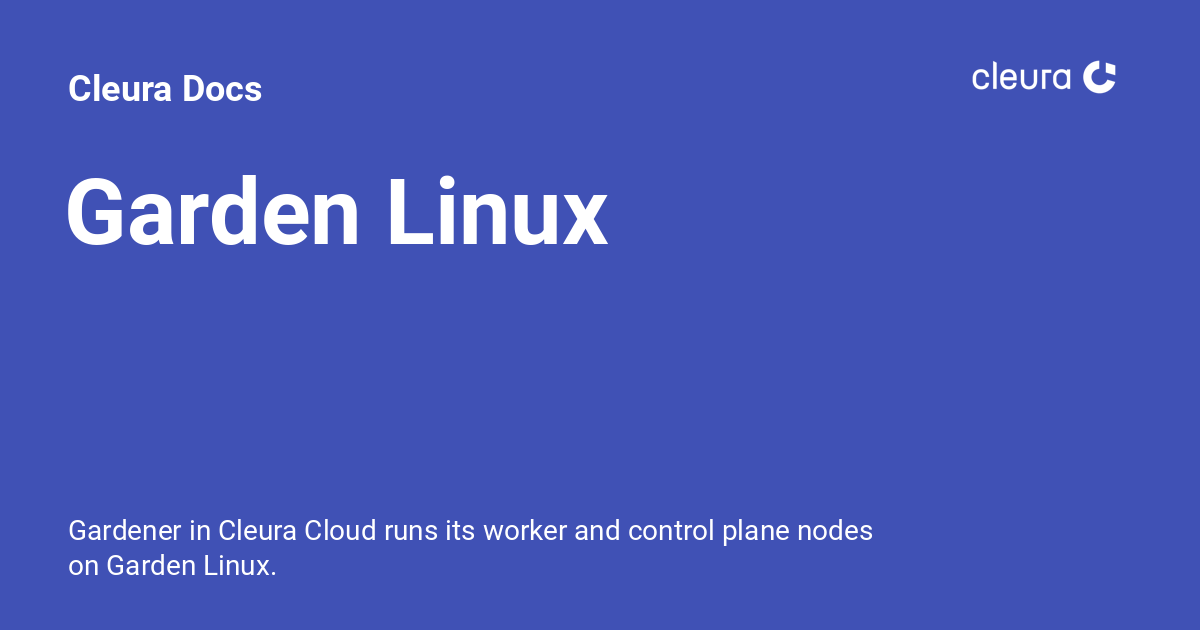
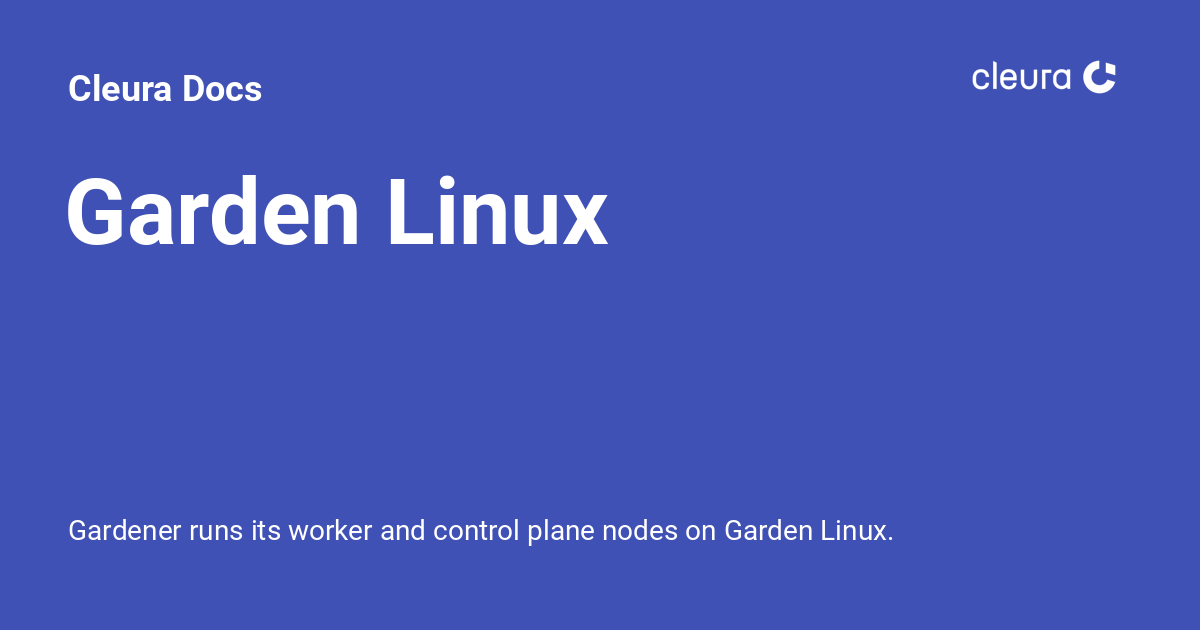
Deployed f7523b7a with MkDocs version: 1.5.3

Changed region(s): [[0.0617, 0.8143, 0.74, 0.9349]]

diff --git a/background/kubernetes/gardener/garden-linux/index.html b/background/kubernetes/gardener/garden-linux/index.html
@@ -6,7 +6,7 @@
       <meta charset="utf-8">
       <meta name="viewport" content="width=device-width,initial-scale=1">
       
-        <meta name="description" content="Gardener in Cleura Cloud runs its worker and control plane nodes on Garden Linux.">
+        <meta name="description" content="Gardener runs its worker and control plane nodes on Garden Linux.">
       
       
       
@@ -70,7 +70,7 @@
       
         <meta  property="og:title"  content="Garden Linux - Cleura Docs" >
       
-        <meta  property="og:description"  content="Gardener in Cleura Cloud runs its worker and control plane nodes on Garden Linux." >
+        <meta  property="og:description"  content="Gardener runs its worker and control plane nodes on Garden Linux." >
       
         <meta  property="og:image"  content="https://docs.cleura.cloud/assets/images/social/background/kubernetes/gardener/garden-linux.png" >
       
@@ -86,7 +86,7 @@
       
         <meta  name="twitter:title"  content="Garden Linux - Cleura Docs" >
       
-        <meta  name="twitter:description"  content="Gardener in Cleura Cloud runs its worker and control plane nodes on Garden Linux." >
+        <meta  name="twitter:description"  content="Gardener runs its worker and control plane nodes on Garden Linux." >
       
         <meta  name="twitter:image"  content="https://docs.cleura.cloud/assets/images/social/background/kubernetes/gardener/garden-linux.png" >
       
@@ -4053,7 +4053,7 @@ For example, Garden Linux 576 includes the Linux 5.10 kernel, whereas Garden Lin
   <small>
     
       Last update:
-      <span class="git-revision-date-localized-plugin git-revision-date-localized-plugin-iso_date">2023-09-20</span>
+      <span class="git-revision-date-localized-plugin git-revision-date-localized-plugin-iso_date">2023-12-05</span>
       
         <br>
         Created:

diff --git a/background/kubernetes/gardener/autoupgrades/index.html b/background/kubernetes/gardener/autoupgrades/index.html
@@ -4060,7 +4060,7 @@ That is to say that, rather than recreating them with the old versions and waiti
   <small>
     
       Last update:
-      <span class="git-revision-date-localized-plugin git-revision-date-localized-plugin-iso_date">2023-04-06</span>
+      <span class="git-revision-date-localized-plugin git-revision-date-localized-plugin-iso_date">2023-12-05</span>
       
         <br>
         Created:
@@ -4081,7 +4081,7 @@ That is to say that, rather than recreating them with the old versions and waiti
   
     <div class="md-source-date">
       <small>
-          Authors: <span class='git-page-authors git-authors'>Christos Varelas</span>
+          Authors: <span class='git-page-authors git-authors'>Christos Varelas, Florian Haas</span>
       </small>
     </div>
   

diff --git a/howto/kubernetes/gardener/create-shoot-cluster/index.html b/howto/kubernetes/gardener/create-shoot-cluster/index.html
@@ -4108,7 +4108,7 @@ A 4th node would push your total memory allocation to 64 GiB, violating your qu
   <small>
     
       Last update:
-      <span class="git-revision-date-localized-plugin git-revision-date-localized-plugin-iso_date">2023-04-27</span>
+      <span class="git-revision-date-localized-plugin git-revision-date-localized-plugin-iso_date">2023-12-05</span>
       
         <br>
         Created:

diff --git a/howto/kubernetes/gardener/index.html b/howto/kubernetes/gardener/index.html
@@ -3973,7 +3973,7 @@ Then, click the <em>Activate Gardener Service</em> button:</p>
   <small>
     
       Last update:
-      <span class="git-revision-date-localized-plugin git-revision-date-localized-plugin-iso_date">2023-02-15</span>
+      <span class="git-revision-date-localized-plugin git-revision-date-localized-plugin-iso_date">2023-12-05</span>
       
         <br>
         Created:

diff --git a/howto/kubernetes/gardener/kubectl/index.html b/howto/kubernetes/gardener/kubectl/index.html
@@ -4157,7 +4157,7 @@ You should see the page of the Hello World app.</p>
   <small>
     
       Last update:
-      <span class="git-revision-date-localized-plugin git-revision-date-localized-plugin-iso_date">2023-08-14</span>
+      <span class="git-revision-date-localized-plugin git-revision-date-localized-plugin-iso_date">2023-12-05</span>
       
         <br>
         Created:

diff --git a/howto/kubernetes/gardener/hibernate-shoot-cluster/index.html b/howto/kubernetes/gardener/hibernate-shoot-cluster/index.html
@@ -4086,7 +4086,7 @@ left-hand side of the cluster row.</p>
   <small>
     
       Last update:
-      <span class="git-revision-date-localized-plugin git-revision-date-localized-plugin-iso_date">2023-08-14</span>
+      <span class="git-revision-date-localized-plugin git-revision-date-localized-plugin-iso_date">2023-12-05</span>
       
         <br>
         Created:

diff --git a/background/kubernetes/index.html b/background/kubernetes/index.html
@@ -4173,7 +4173,7 @@
   <small>
     
       Last update:
-      <span class="git-revision-date-localized-plugin git-revision-date-localized-plugin-iso_date">2023-07-07</span>
+      <span class="git-revision-date-localized-plugin git-revision-date-localized-plugin-iso_date">2023-12-05</span>
       
         <br>
         Created:
